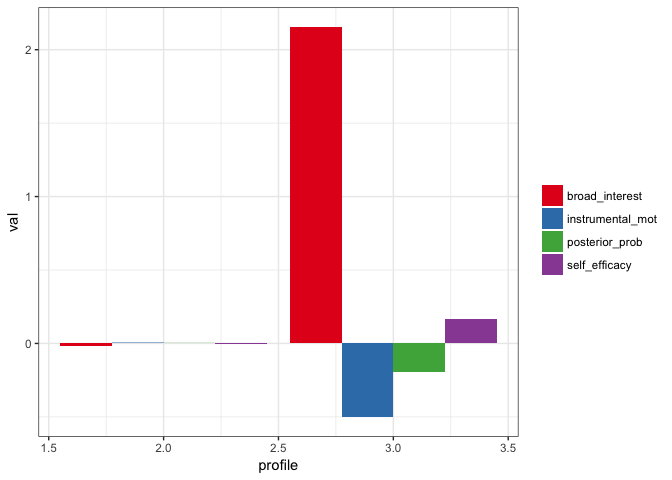
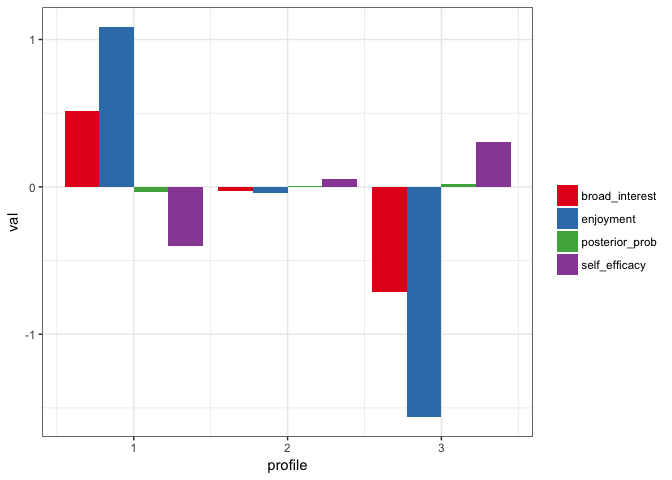
update README

diff --git a/README.md b/README.md
@@ -16,18 +16,17 @@ First, we can explore the Bayesian Information Criteria (BIC) or the Integrated 
 library(tidyLPA)
 ```
 
-Using the built-in `pisaUSA15` dataset and variables for broad interest, instrumental motivation, and self-efficacy, we can quickly explore a three profile solution:
+Using the built-in `pisaUSA15` dataset and variables for broad interest, enjoyment, and self-efficacy, we can quickly explore a three profile solution:
 
 ``` r
 d <- pisaUSA15
-m3 <- create_profiles_lpa(d, broad_interest, instrumental_mot, self_efficacy, n_profiles = 3, model = 2)
+m3 <- create_profiles_lpa(d, broad_interest, enjoyment, self_efficacy, n_profiles = 3, model = 2)
 #> Model with 3 profiles using the 'varying means, equal variances and covariances' model.
-#> Model AIC is 34679.893
-#> Model BIC is 34791.889
-#> Model ICL is 39511.702
+#> AIC is 32198.704
+#> BIC is 32310.725
+#> ICL is 33168.746
+#> Entropy is 0.93051
 plot_profiles_lpa(m3, to_center = TRUE)
-#> Warning: attributes are not identical across measure variables;
-#> they will be dropped
 ```
 
 ![](README-unnamed-chunk-4-1.png)
@@ -35,26 +34,27 @@ plot_profiles_lpa(m3, to_center = TRUE)
 We can also extract the posterior probabilities by setting `return_posterior_probs` to `TRUE`:
 
 ``` r
-m3 <- create_profiles_lpa(d, broad_interest, instrumental_mot, self_efficacy, n_profiles = 3, model = 2, return_posterior_probs = TRUE)
+m3 <- create_profiles_lpa(d, broad_interest, enjoyment, self_efficacy, n_profiles = 3, model = 2, return_posterior_probs = TRUE)
 #> Model with 3 profiles using the 'varying means, equal variances and covariances' model.
-#> Model AIC is 34679.893
-#> Model BIC is 34791.889
-#> Model ICL is 39511.702
+#> AIC is 32198.704
+#> BIC is 32310.725
+#> ICL is 33168.746
+#> Entropy is 0.93051
 m3
-#> # A tibble: 5,367 x 5
-#>    broad_interest instrumental_mot self_efficacy profile posterior_prob
-#>  *          <dbl>            <dbl>         <dbl>   <dbl>          <dbl>
-#>  1            3.8             2.00         1.000       2        0.51205
-#>  2            3.0             2.50         2.750       2        0.63810
-#>  3            1.8             3.50         3.375       2        0.80200
-#>  4            1.4             2.75         2.750       2        0.81043
-#>  5            1.8             2.00         2.000       2        0.74737
-#>  6            1.6             2.75         1.875       2        0.79362
-#>  7            3.0             1.25         2.250       2        0.57589
-#>  8            2.6             2.00         2.000       2        0.66186
-#>  9            1.0             1.00         2.625       2        0.78366
-#> 10            2.2             1.00         1.750       2        0.65999
-#> # ... with 5,357 more rows
+#> # A tibble: 5,375 x 5
+#>    broad_interest enjoyment self_efficacy profile posterior_prob
+#>  *          <dbl>     <dbl>         <dbl>   <dbl>          <dbl>
+#>  1            3.8       4.0         1.000       1        0.96594
+#>  2            3.0       3.0         2.750       2        0.97333
+#>  3            1.8       2.8         3.375       2        0.98003
+#>  4            1.4       1.0         2.750       3        0.99949
+#>  5            1.8       2.2         2.000       2        0.98567
+#>  6            1.6       1.6         1.875       3        0.87652
+#>  7            3.0       3.8         2.250       1        0.92046
+#>  8            2.6       2.2         2.000       2        0.95714
+#>  9            1.0       2.8         2.625       2        0.94357
+#> 10            2.2       2.0         1.750       2        0.80086
+#> # ... with 5,365 more rows
 ```
 
 See `?create_profiles_lpa` for a description of the models; model `2` as specified in this example is for a model with varying means but equal variances and covariances across profiles.
